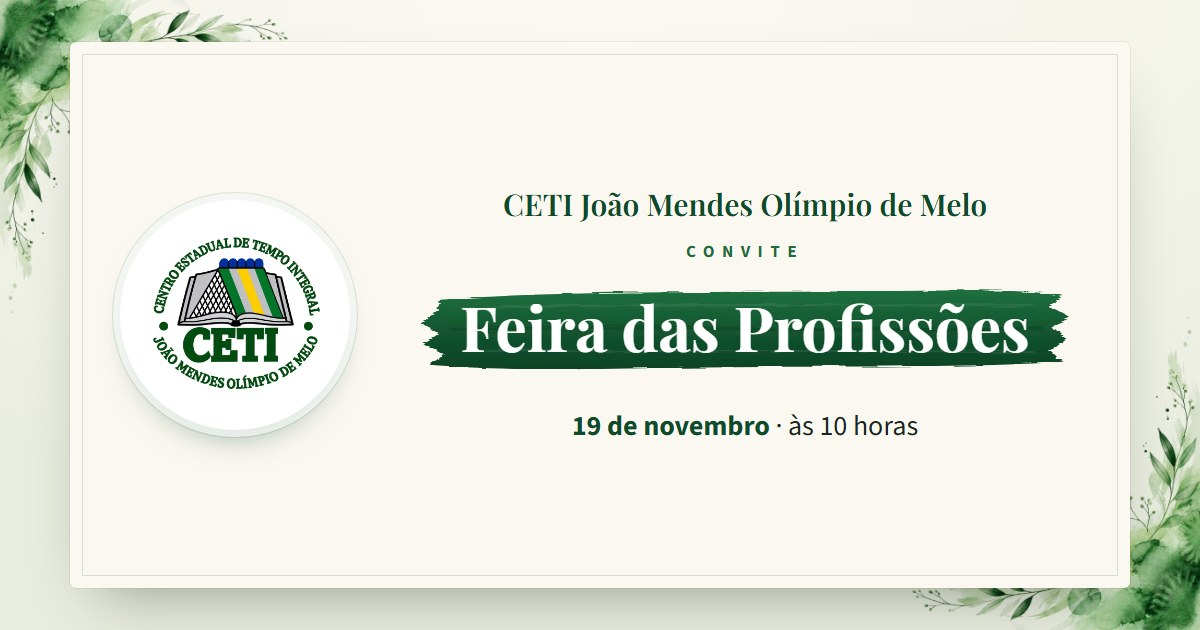
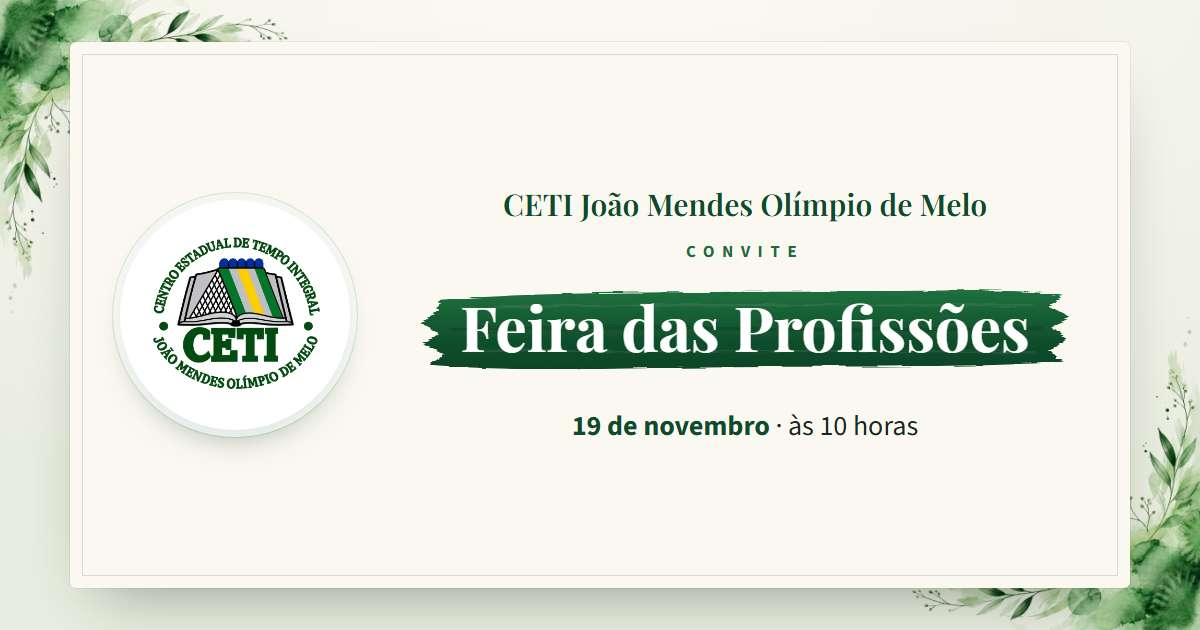
Comprime imagens do convite

diff --git a/index.html b/index.html
@@ -17,7 +17,7 @@
 <meta property="og:image:alt" content="Convite para a Feira das Profissões do CETI João Mendes Olímpio de Melo">
 <meta name="twitter:card" content="summary_large_image">
 <link rel="icon" type="image/png" href="assets/favicon.png">
-<link rel="apple-touch-icon" href="assets/apple-touch-icon.png">
+<link rel="apple-touch-icon" href="assets/favicon.png">
 <link rel="preconnect" href="https://fonts.googleapis.com">
 <link rel="preconnect" href="https://fonts.gstatic.com" crossorigin>
 <link rel="stylesheet" href="https://fonts.googleapis.com/css2?family=Playfair+Display:ital,wght@0,600;0,700;1,700&family=Source+Sans+3:wght@400;600;700&display=swap">
@@ -493,7 +493,7 @@
         <span>Feira das Profissões</span>
       </h1>
       <figure class="logo reveal" style="margin-left:0;margin-right:0">
-        <img src="assets/logo-ceti-720.webp" width="720" height="592"
+        <img src="assets/logo-ceti.webp" width="400" height="329"
              alt="Logo do Centro Estadual de Tempo Integral João Mendes Olímpio de Melo (CETI)">
       </figure>
     </div>
